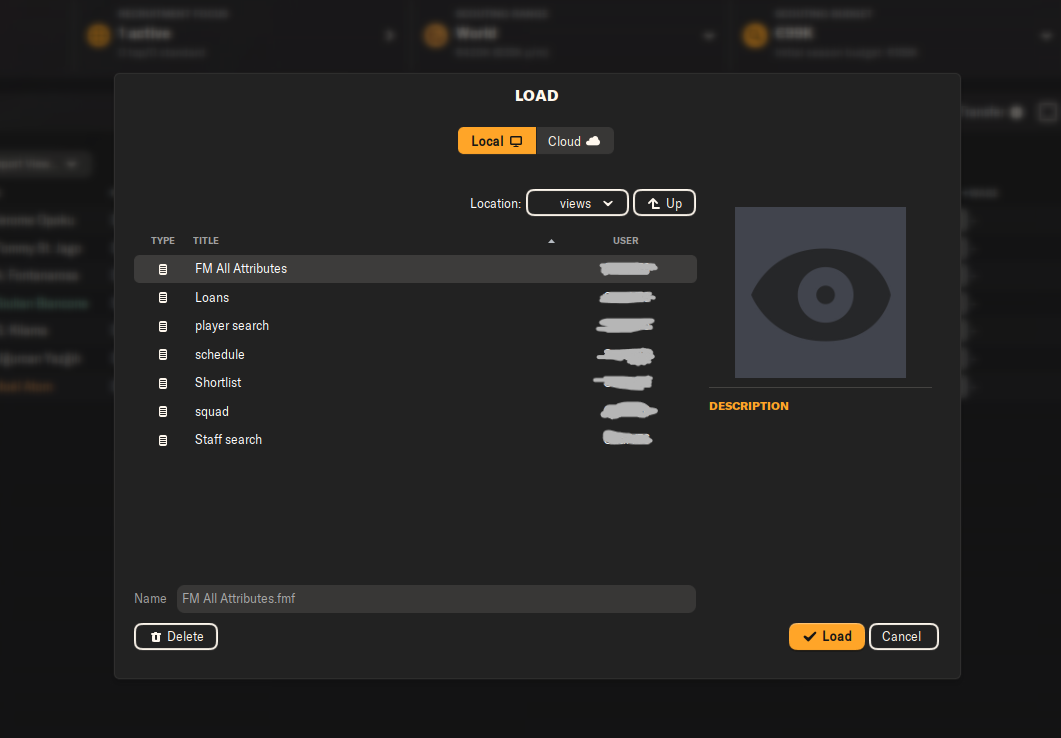
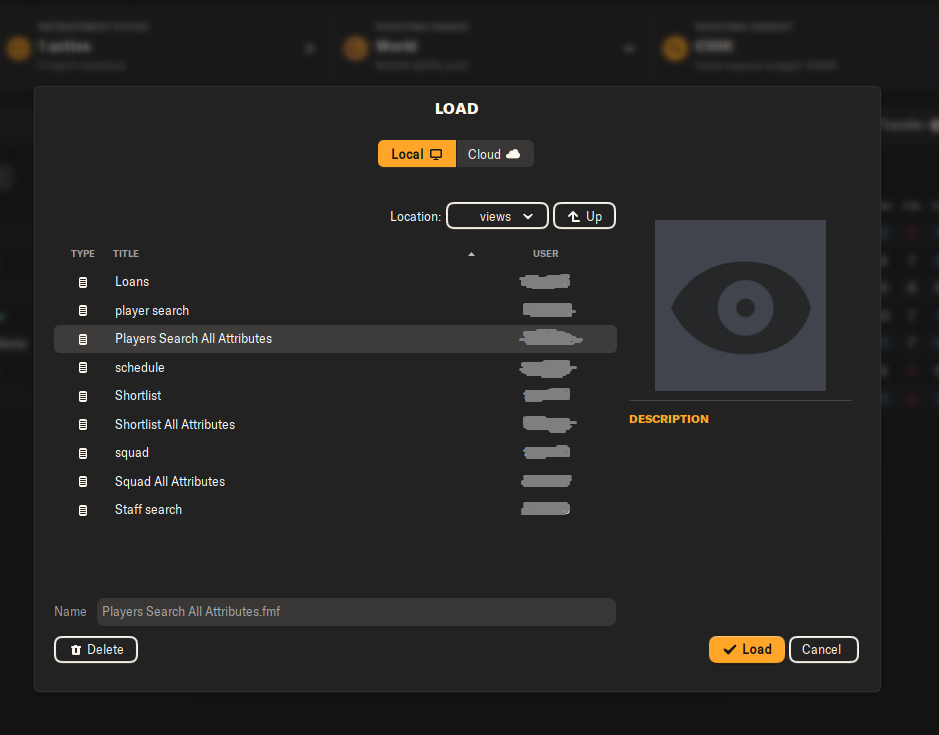
update also shortlist and squad

diff --git a/fm_manipulations/menual_upload_html.html b/fm_manipulations/menual_upload_html.html
@@ -9,15 +9,15 @@
   <body>
     <h1>How to Upload your HTML Players file</h1>
     <p>
-      First go to your <span>Players Search</span> screen in the Football
-      Manager game
+      First go to your <span>Players Search</span> or <span>Shortlist</span> or
+      <span>Shquad</span> screen in the Football Manager game
     </p>
     <p>
-      <span>Filter</span> the results of the amount of players to MAXIMUM of
-      <span>4534</span> players
+      If you are in the Players Search screen or the Shortlist screen,
+      <br /><span>Filter</span> the results to MAXIMUM <span>4534</span> players
     </p>
     <p>
-      Click on one of the lines that represent player in the a players table and
+      Click on one of the lines that represent a player in the players table and
       then click : <span>CTRL A</span> <br />It should look like this :
     </p>
     <img
@@ -28,21 +28,21 @@
     />
     <p>
       After selecting all of the players click : <span>CTRL P</span> <br />
-      And it will show you a popping scrren like this :
+      And it will show you a pop up screen like this :
     </p>
     <p>
       Select the <span>Web Page</span> option and then click <span>OK</span>
     </p>
     <img src="./after_clicking_ctrl_p.png" alt="" />
     <p>
-      Now it will show you a popping screen that let you choose where do you
-      want to store the HTML file in you PC as you see in the next picture. Put
-      the file in a place you will remember and then click :
+      Now it will show you a pop up screen that let you choose where do you want
+      to store the HTML file in you PC as you see in the next picture. Put the
+      file in a place you will remember and then click :
       <span>Save</span>
     </p>
     <img src="./choosing_where_to_store_html_file.png" alt="" />
     <p>
-      Now you saved your HTML file with the players data and ready to upload it
+      Now you saved your HTML file with the player's data and ready to upload it
       !
     </p>
   </body>

diff --git a/fm_manipulations/second_page.js b/fm_manipulations/second_page.js
@@ -1,4 +1,5 @@
 let page_table = null;
+
 function createFilteredTable() {
   const tableData = getUploadedTableData(); // Retrieve the table data as HTML string
   if (!tableData) {
@@ -8,7 +9,6 @@ function createFilteredTable() {
 
   // Define the required columns
   const requiredColumns = [
-    "Rec",
     "UID",
     "Inf",
     "Name",
@@ -75,7 +75,7 @@ function createFilteredTable() {
 
   // Append the new table to the body or a specific element
   const form_table_container = document.getElementById("form_table_container");
-  form_table_container.appendChild(newTable); // or document.getElementById("yourElementId").appendChild(newTable);
+  form_table_container.appendChild(newTable);
   page_table = newTable;
 }
 
@@ -146,10 +146,13 @@ function addNewColumnsWithRatings(
     headerRow.appendChild(th);
   });
 
-  // Add rating data for each player for each role
   for (let i = 1; i < newTable.rows.length; i++) {
     const newRow = newTable.rows[i];
-    const uid = newRow.cells[columnIndexMap.get("UID")].textContent; // Get UID from the new row
+    // Find the index of the "UID" column in the new table
+    let uidColumnIndex = Array.from(headerRow.cells).findIndex(
+      (cell) => cell.textContent === "UID"
+    );
+    const uid = newRow.cells[uidColumnIndex].textContent; // Directly get UID from the new row (assuming UID is in the second column)
 
     // Find the corresponding row in the original table using UID
     const originalRow = findRowByUID(originalTable, uid, columnIndexMap);

diff --git a/fm_manipulations/menual_download_view.html b/fm_manipulations/menual_download_view.html
@@ -10,8 +10,8 @@
     <h1>How To download and install View file</h1>
     <p>First Download in the previous page the View file</p>
     <p>
-      Move the downloaded View file to the folder in the picture, usually it's
-      in :
+      Move the Views in the downloaded Zip file to the folder that shows in the
+      picture, usually it's in :
       <br />
       <span
         >C:\Users\<span style="font-weight: lighter">Your User Name</span
@@ -19,9 +19,11 @@
       >
     </p>
     <img height="500px" src="./fm_view_folder.png" alt="" />
+    <p>Now open the Football Manager game</p>
     <p>
-      Now open the Football Manager game and go to the :
-      <span>Player Search Screen</span>
+      For this tutorial I will load it to the <span>Players search</span> table
+      but it's also the same for the <span>Shortlist</span> and the
+      <span>Squad</span> tables
     </p>
     <p>
       In the left menu of the screen go to
@@ -44,6 +46,10 @@
     <p>
       Now you will see the View with all of the new columns in the players
       search table
+    </p>
+    <p>
+      These are also the instructions for the shortlist table and the squad
+      screens to load up their Views
     </p>
   </body>
 </html>

diff --git a/fm_manipulations/index.html b/fm_manipulations/index.html
@@ -27,7 +27,7 @@
       >
         Upload File
       </button>
-      <span id="fileChosen">No file selected</span>
+      <span id="fileChosen" style="font-weight: lighter">No file selected</span>
     </div>
     <p id="error_message_file"></p>
     <p style="font-weight: bold">Here is how to upload your HTML file :</p>
@@ -35,15 +35,16 @@
       Click Here
     </button>
     <p>
-      To use this Website's abillities, you need to Download this View file and
-      load into the Football Manager game :
+      To use this Website's abillities, you need to Download this Zip file that
+      in it there are the 3 Views for the <span>Players Serach</span>,
+      <span>Shortlist</span> and the <span>Squad</span> tables
     </p>
     <!-- Button for downloading the Table View file -->
     <button id="download_View_File" onclick="downloadViewFile()">
-      Download View File
+      Download Views Zip File
     </button>
     <p style="font-weight: bold">
-      Here is how to download and install the Football Mangeer View :
+      Here is how to download and install the Football Manger Views :
     </p>
     <button id="menual_button" onclick="moveToDownloadViewPageMenual()">
       Click Here

diff --git a/fm_manipulations/first_page.js b/fm_manipulations/first_page.js
@@ -37,7 +37,6 @@ function readAndCheckFile() {
     // selecting all of the th elements in the first tr
     const firstRowHeader = table.querySelectorAll("tr:first-child th");
     const requiredColumnNames = [
-      "Rec",
       "UID",
       "Inf",
       "Name",
@@ -142,7 +141,7 @@ function showResultsAfterUserSelectedFile() {
     fileChosen.textContent = fileInput.files[0].name;
     readAndCheckFile();
   } else {
-    fileChosen.textContent = "לא נבחר קובץ";
+    fileChosen.textContent = "No file chosen";
   }
 }
 
@@ -163,12 +162,12 @@ window.addEventListener("pageshow", function () {
  */
 function downloadViewFile() {
   // URL to the .fmf file
-  const fileUrl = "./FM All Attributes.fmf";
+  const fileUrl = "./All Attribute Views.zip";
 
   // Creating an anchor element and trigger download
   const anchor = document.createElement("a");
   anchor.href = fileUrl;
-  anchor.download = "FM All Attributes.fmf";
+  anchor.download = "All Attributes Views.zip";
   anchor.click();
 
   // Optional: remove the anchor element after initiating download

diff --git a/fm_manipulations/first_page.css b/fm_manipulations/first_page.css
@@ -94,3 +94,7 @@ p {
 #download_View_File:hover {
   background-color: #45a049;
 }
+
+span {
+  font-weight: bold;
+}
